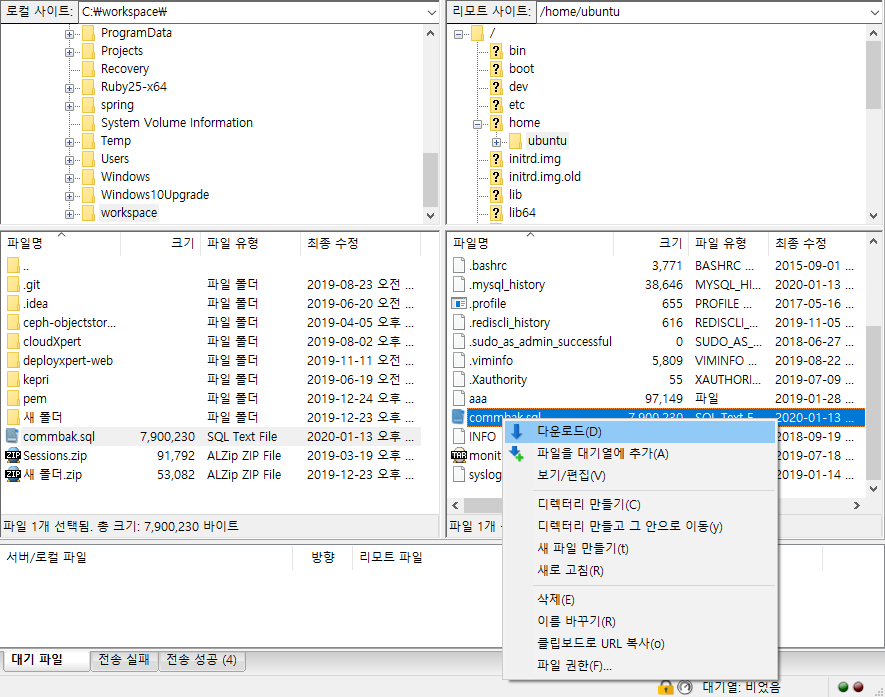
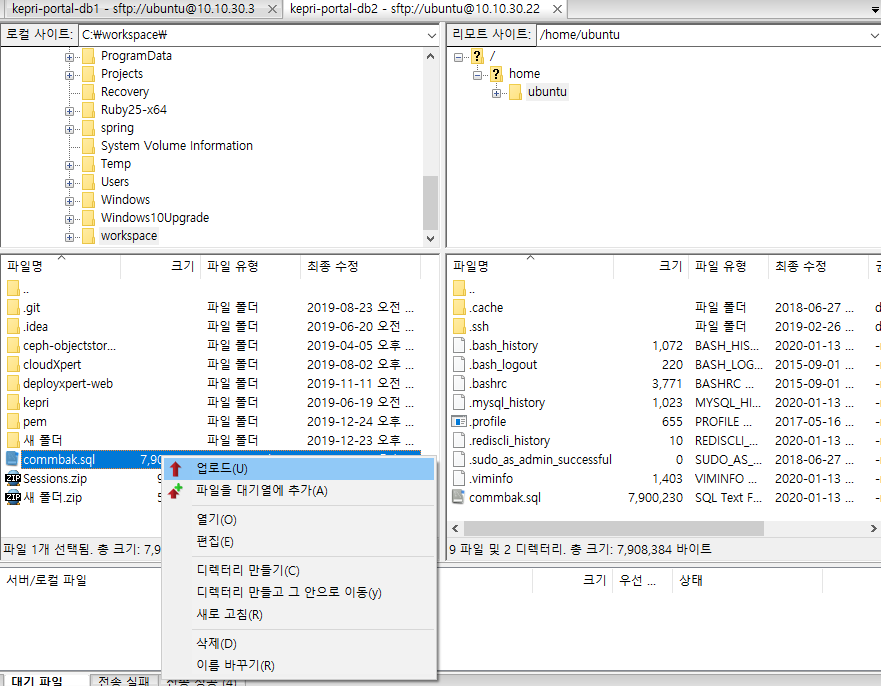
mysqldump modified

Changed region(s): [[0.0, 0.0, 1.0, 1.0], [0.3371, 0.8571, 0.4291, 0.8878], [0.6742, 0.3673, 0.7049, 0.398]]

diff --git a/_posts/SQL/2020-01-13-mysqldump.md b/_posts/SQL/2020-01-13-mysqldump.md
@@ -44,11 +44,11 @@ tags:
   - `FileZilla` 이용
   - (A)의 파일을 로컬 PC로 다운로드
 
-  ![mysqldump1](/assets/database/mysql/mysqldump1.png)
+  ![mysqldump](/assets/database/mysql/mysqldump.png)
 
   - 로컬 PC의 파일을 (B)로 업로드
 
-  ![mysqldump2](/assets/database/mysql/mysqldump2.png)
+  ![mysqldump1](/assets/database/mysql/mysqldump1.png)
 
 - (B)로 접속하여 데이터 복구
 
